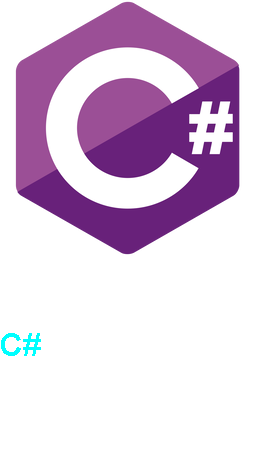
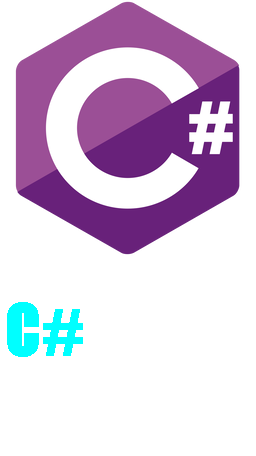
aula4

Changed region(s): [[0.0, 0.6447, 0.3438, 0.7982]]

diff --git a/src/StickerGenerator.java b/src/StickerGenerator.java
@@ -10,7 +10,9 @@ public class StickerGenerator {
 
     public void Generate(InputStream inputStream, String stickerText, String fileName) throws Exception
     {
-        //Essa função cria uma figurinha (imagem com texto transparente), recebe como argumentos um InputStream de uma imagem, um String do texto da figurinha e o nome do arquivo a ser salvo.
+        //  Essa função cria uma figurinha (imagem com texto transparente), recebe como argumentos um InputStream de uma imagem, 
+        //  um String do texto da figurinha e o nome do arquivo a ser salvo.
+
         // leitura da imagem
         BufferedImage imagemOriginal = ImageIO.read(inputStream);
         
@@ -25,10 +27,10 @@ public class StickerGenerator {
         graphics.drawImage(imagemOriginal, 0, 0, null);
 
         // escrever uma frase na nova imagem
-        Font fonte = new Font(Font.SANS_SERIF, Font.BOLD, 32);
+        Font fonte = new Font("Impact", Font.BOLD, 64);
         graphics.setFont(fonte);
         graphics.setColor(Color.CYAN);
-        graphics.drawString(stickerText, 0, novaAltura - 100);
+        graphics.drawString(stickerText, 5, novaAltura - 100);
 
         // escrever a nova imagem em um arquivo
         fileName = fileName.replace(":", "-"); // Substitui o ":" por "-" para evitar problemas com o Windows
